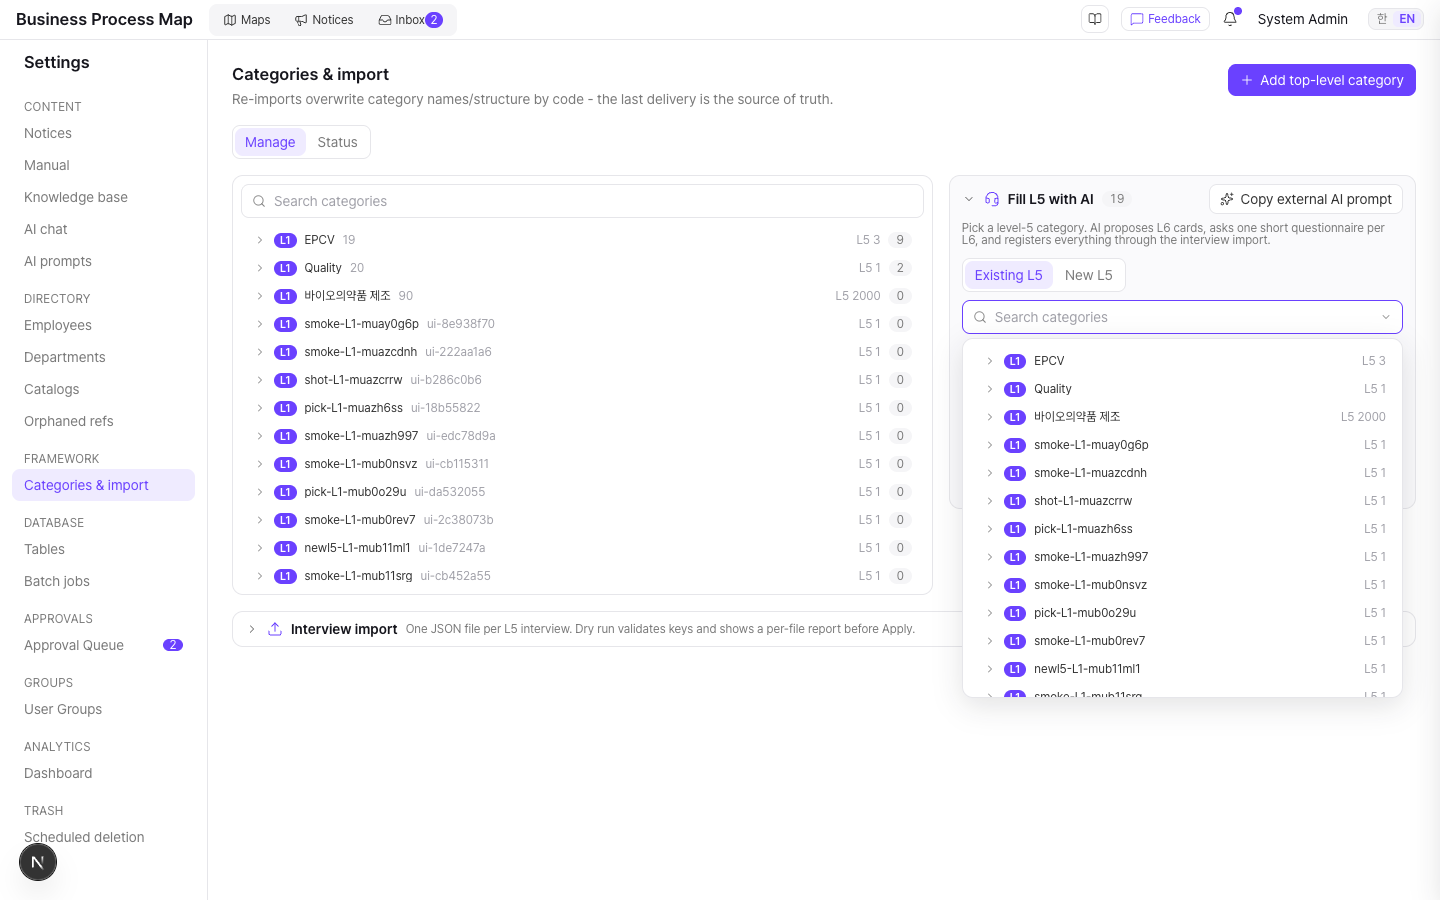
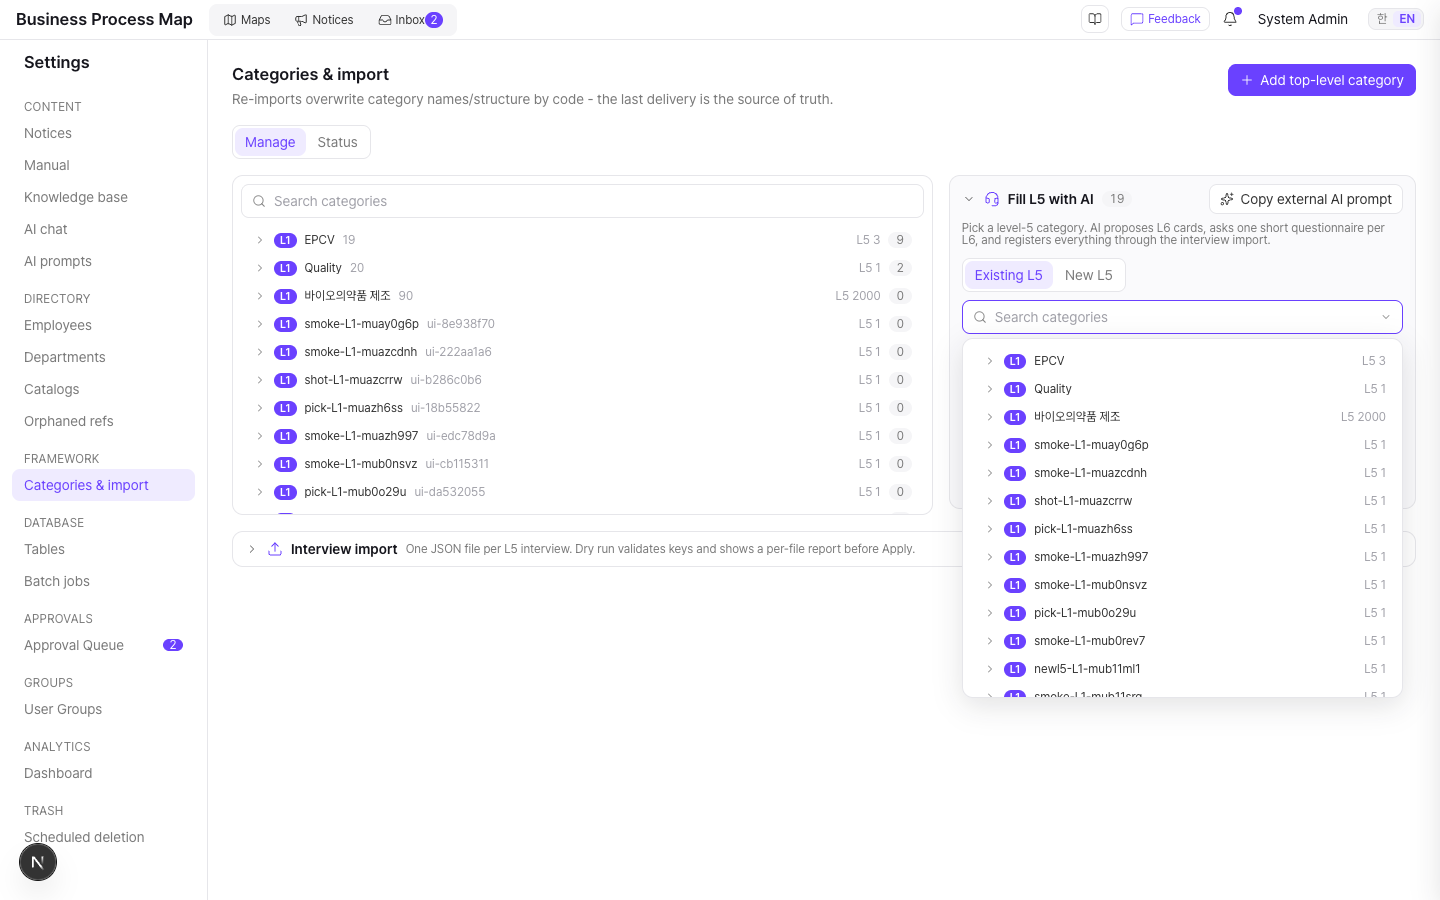
fix(admin): show ten tree rows in the category box — 카테고리 트리 상자를 검색 상자+10행(340px)으로
Claude-Session: https://claude.ai/code/session_01Cp6z7UQxkS4JyPnK2oo8Q2

Changed region(s): [[0.1875, 0.56, 0.625, 0.6533], [0.1875, 0.6844, 0.625, 0.7156]]

diff --git a/frontend/src/components/admin/framework-panel.tsx b/frontend/src/components/admin/framework-panel.tsx
@@ -734,8 +734,8 @@ export function FrameworkPanel({ onToast, scopeRootIds }: FrameworkPanelProps) {
         <>
       {/* 복수열 — 좌: 카테고리 트리, 우: 아코디언 섹션(캠페인 진입·진행 중 세션·인터뷰 임포트). 리포트는 그리드 아래 전폭 */}
       <div className="grid grid-cols-1 gap-4 xl:grid-cols-[minmax(0,3fr)_minmax(380px,2fr)]" data-id="framework-manage-grid">
-      {/* 트리는 420px 상자 안에서 내부 스크롤 — L1이 수십 개여도 페이지가 늘어나지 않는다(뷰포트 비율 대신 고정, 사용자 지적 2026-09-22) */}
-      <div data-id="framework-admin-tree" className="fw-tree scroll-soft max-h-[420px] self-start overflow-y-auto rounded-md border border-hairline p-2">
+      {/* 트리는 검색 상자 + 10행(28px)만 보이는 340px 상자 안에서 내부 스크롤 — 더 길 필요 없다는 사용자 지시 2026-09-22 */}
+      <div data-id="framework-admin-tree" className="fw-tree scroll-soft max-h-[340px] self-start overflow-y-auto rounded-md border border-hairline p-2">
         {!scopeRootIds && (
           <label className="mb-2 flex min-w-0 items-center gap-2 rounded-sm border border-hairline bg-surface px-2.5 py-1.5 text-caption text-ink">
             <Search size={14} strokeWidth={1.5} className="shrink-0 text-ink-tertiary" />

diff --git a/PROGRESS.md b/PROGRESS.md
@@ -5,7 +5,7 @@
 
 ## 2026-09-21 — AI 컨설턴트 L5 캠페인 (feat/ai-consultant-l5 → dev 머지)
 
-- **진입 피커 드롭다운화 + 섹션 높이 재조정(dev, 09-22):** [AI로 L5 채우기]가 트리 높이만큼 길어진다는 지적 → `FrameworkCascadePicker variant="dropdown"`(검색 상자만 자리, 트리는 상자 클릭/포커스 시 body 포털 fixed 패널 z 1350, 고르면 닫힘·Esc·바깥 클릭 닫힘, 아래 공간 부족 시 패널 축소). consult maxHeight 640→480·import 900→720·좌측 트리 70vh→고정 420px(내부 스크롤). [인터뷰 임포트]는 접힘/펼침 모두 그리드 아래 전폭(이전 공유 캡처가 옛 배치였음). `pw-fw-admin-layout-shot.mjs`(휴지 상태·드롭다운·임포트 펼침 3장).
+- **진입 피커 드롭다운화 + 섹션 높이 재조정(dev, 09-22):** [AI로 L5 채우기]가 트리 높이만큼 길어진다는 지적 → `FrameworkCascadePicker variant="dropdown"`(검색 상자만 자리, 트리는 상자 클릭/포커스 시 body 포털 fixed 패널 z 1350, 고르면 닫힘·Esc·바깥 클릭 닫힘, 아래 공간 부족 시 패널 축소). consult maxHeight 640→480·import 900→720·좌측 트리 70vh→고정 340px(검색 상자+10행, 내부 스크롤). [인터뷰 임포트]는 접힘/펼침 모두 그리드 아래 전폭(이전 공유 캡처가 옛 배치였음). `pw-fw-admin-layout-shot.mjs`(휴지 상태·드롭다운·임포트 펼침 3장).
 - **Categories & import 복수열+아코디언(dev):** Manage 뷰를 좌 트리 / 우 아코디언 열(`admin-section.tsx`: 헤더 건수 배지·힌트·액션 슬롯·0fr→1fr 전환·localStorage 펼침 기억)로 재구성. 우측은 [AI로 L5 채우기](배지=진행 세션 수, 안에 [진행 중 세션] 접힘 아코디언) + [인터뷰 임포트](배지=파일 수). 모든 섹션 **기본 접힘**, 본문은 `maxHeight`(consult 640·sessions 240·import 900·기본 520) 안에서 내부 스크롤(overflow-hidden), 트리도 70vh 상한 내부 스크롤. [인터뷰 임포트]는 파일 선택·dry run·리포트까지 한 섹션으로 그리드 **아래 전폭**(리포트 2단이 폭을 다 써야 읽힘).
 - **진입 카드 새 L5 모드 + 계단식 UI(dev):** 공용 `framework-cascade-picker.tsx`(탐색 모달의 계단식 규칙: lazy 트리 엔진·가이드 라인·레벨 필·조상 호버·accordion·검색 히트=체인 펼침, "이동" 대신 "선택") 신설. 진입 카드는 [기존 L5 | 새 L5] 세그먼트 — 새 L5는 L4 선택+이름 입력 → `createCategory`→세션 생성. 관리 트리도 같은 계단식 스타일(레벨 필·가이드 라인·accordion 모션·검색→체인 펼침+강조)로 재구성, 행 액션은 유지. 스모크 `pw-fw-consult.mjs` 12/12(피커 경유)·`pw-fw-consult-new-l5.mjs` 4/4.
 - **연결·등록 단계 UX(dev):** 연결 화면을 좌 L5 미리보기(전체 높이) / 우 패널(L6 카드별 미리보기·답 고쳐 다시 그리기, entry·edges 표는 카드 이름으로, 분기/루프 조건은 별도 행)로 재구성. `POST .../tasks/{id}/reopen`(drawn→ready, 설문·답 유지, 세션 plan_locked로) · `POST .../reopen-relations`(ready→linking)로 뒤로 가기. 등록 단계는 진입 즉시 dry run 자동 실행 + [연결 단계로 돌아가기].
